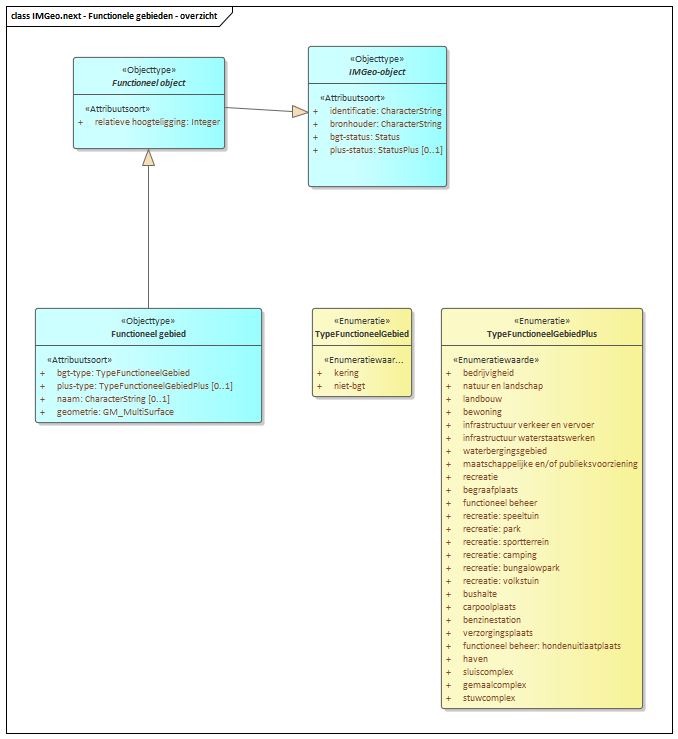
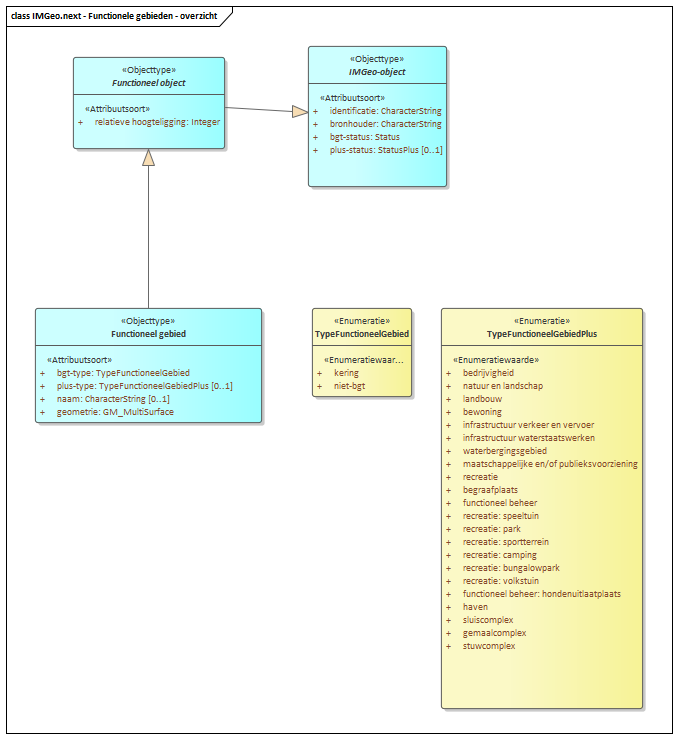
MIMCM-InformatiemodelGeografieIMGeo-conceptueel-1.0-0-20200701-20201126-001243

Changed region(s): [[0.6814, 0.7781, 0.9292, 0.9648]]

diff --git a/data/IMGeo-dev-cat.respec.html b/data/IMGeo-dev-cat.respec.html
@@ -1,7 +1,7 @@
 
 <section id="cat" class="normative">
    <h2>Gegevensdefinitie</h2>
-   <!--MIMCM-InformatiemodelGeografieIMGeo-conceptueel-1.0-0-20200701-20201126-000916 imvertor 1.62.1--><a class="anchor" id="global_d128551e1"></a><section id="global_d128551e1">
+   <!--MIMCM-InformatiemodelGeografieIMGeo-conceptueel-1.0-0-20200701-20201126-001243 imvertor 1.62.1--><a class="anchor" id="global_d128689e1"></a><section id="global_d128689e1">
       <h3>Model   Informatiemodel Geografie (IMGeo) - conceptueel</h3>
       <section id="EAID_8ABD44E0_479E_4cd3_A3E0_F8EAE82D2E3C">
          <h4>Diagram   IMGeo.next met IMBAG - overzicht</h4>
@@ -2018,7 +2018,7 @@
       <h3>Domein   Wegen en verharding</h3>
       <section id="EAID_E403EC98_31B5_4311_805F_11C189EFE219">
          <h4>Diagram   IMGeo.next  - Wegen en verharding - overzicht</h4>
-         <div class="imageinfo overview"><img src="data/Images/EAID_E403EC98_31B5_4311_805F_11C189EFE219.png" usemap="#imagemap-EAID_E403EC98_31B5_4311_805F_11C189EFE219" alt="Diagram "><map name="imagemap-EAID_E403EC98_31B5_4311_805F_11C189EFE219"><area shape="rect" alt="Inrichtingselement" coords="460,403,550,437" href="#graph_EAID_B86E44E5_80BA_4a0b_8DC2_66DFBAA9EEBC"><area shape="rect" alt="TypeWeginrichtingPlus" coords="520,621,617,801" href="#graph_EAID_1B46D55B_448E_4813_944F_7AA7568888BC"><area shape="rect" alt="TypeWeginrichting" coords="413,621,503,697" href="#graph_EAID_8D24AF7A_F3C5_412f_BBB6_E6DDCE147FFB"><area shape="rect" alt="FunctieOndersteunendWegdeelPlus" coords="1196,545,1345,605" href="#graph_EAID_B97C471E_E6A0_40e3_B724_94E026C58AA1"><area shape="rect" alt="FunctieOndersteunendWegdeel" coords="1039,545,1172,634" href="#graph_EAID_4D523A36_1678_4926_A135_39A590146B5F"><area shape="rect" alt="TypeVerhardingPlus" coords="177,525,316,783" href="#graph_EAID_B447BEB5_6C5A_4b9b_9428_358FA653F498"><area shape="rect" alt="TypeVerharding" coords="35,525,158,640" href="#graph_EAID_779158DB_2A20_482e_971A_B89B0AC897A2"><area shape="rect" alt="FunctieWegPlus" coords="890,547,1006,649" href="#graph_EAID_B330F5D6_4F71_4de7_85D9_B46E8CC3092B"><area shape="rect" alt="FunctieWeg" coords="754,534,873,805" href="#graph_EAID_E35307AD_0134_4bfa_95B4_4F6C4F778413"><area shape="rect" alt="Verharding" coords="35,403,367,521" href="#graph_EAID_0F119693_FE35_4680_8746_AF64399B15E0"><area shape="rect" alt="Weginrichtingselement" coords="413,474,597,605" href="#graph_EAID_733BDE2B_7318_40c7_B5A5_4EF6745F0CAA"><area shape="rect" alt="Ondersteunend wegdeel" coords="1039,411,1284,513" href="#graph_EAID_57BA4B67_23D7_41e8_93C6_213555139591"><area shape="rect" alt="Functioneel object" coords="799,241,951,330" href="#graph_EAID_44F5B34F_C3BB_4af7_AD6D_BE95AA65FDBE"><area shape="rect" alt="Topografisch object" coords="285,241,437,330" href="#graph_EAID_0B8D2CCE_1E64_4610_94D7_09B91116A7EB"><area shape="rect" alt="IMGeo-object" coords="501,46,653,163" href="#graph_EAID_D24D2B98_58D3_4be7_B317_FF748E7955A0"><area shape="rect" alt="Wegdeel" coords="744,403,1006,521" href="#graph_EAID_74C9E973_36A1_47d8_8BD4_36EB60B4777C"></map><p><b>IMGeo.next  - Wegen en verharding - overzicht</b></p>
+         <div class="imageinfo overview"><img src="data/Images/EAID_E403EC98_31B5_4311_805F_11C189EFE219.png" usemap="#imagemap-EAID_E403EC98_31B5_4311_805F_11C189EFE219" alt="Diagram "><map name="imagemap-EAID_E403EC98_31B5_4311_805F_11C189EFE219"><area shape="rect" alt="Inrichtingselement" coords="460,400,550,434" href="#graph_EAID_B86E44E5_80BA_4a0b_8DC2_66DFBAA9EEBC"><area shape="rect" alt="TypeWeginrichtingPlus" coords="520,618,617,798" href="#graph_EAID_1B46D55B_448E_4813_944F_7AA7568888BC"><area shape="rect" alt="TypeWeginrichting" coords="413,618,503,694" href="#graph_EAID_8D24AF7A_F3C5_412f_BBB6_E6DDCE147FFB"><area shape="rect" alt="FunctieOndersteunendWegdeelPlus" coords="1196,542,1345,602" href="#graph_EAID_B97C471E_E6A0_40e3_B724_94E026C58AA1"><area shape="rect" alt="FunctieOndersteunendWegdeel" coords="1039,542,1172,631" href="#graph_EAID_4D523A36_1678_4926_A135_39A590146B5F"><area shape="rect" alt="TypeVerhardingPlus" coords="177,522,316,780" href="#graph_EAID_B447BEB5_6C5A_4b9b_9428_358FA653F498"><area shape="rect" alt="TypeVerharding" coords="35,522,158,637" href="#graph_EAID_779158DB_2A20_482e_971A_B89B0AC897A2"><area shape="rect" alt="FunctieWegPlus" coords="890,544,1006,711" href="#graph_EAID_B330F5D6_4F71_4de7_85D9_B46E8CC3092B"><area shape="rect" alt="FunctieWeg" coords="754,531,873,802" href="#graph_EAID_E35307AD_0134_4bfa_95B4_4F6C4F778413"><area shape="rect" alt="Verharding" coords="35,400,367,518" href="#graph_EAID_0F119693_FE35_4680_8746_AF64399B15E0"><area shape="rect" alt="Weginrichtingselement" coords="413,471,597,602" href="#graph_EAID_733BDE2B_7318_40c7_B5A5_4EF6745F0CAA"><area shape="rect" alt="Ondersteunend wegdeel" coords="1039,408,1284,510" href="#graph_EAID_57BA4B67_23D7_41e8_93C6_213555139591"><area shape="rect" alt="Functioneel object" coords="799,238,951,327" href="#graph_EAID_44F5B34F_C3BB_4af7_AD6D_BE95AA65FDBE"><area shape="rect" alt="Topografisch object" coords="285,238,437,327" href="#graph_EAID_0B8D2CCE_1E64_4610_94D7_09B91116A7EB"><area shape="rect" alt="IMGeo-object" coords="501,43,653,160" href="#graph_EAID_D24D2B98_58D3_4be7_B317_FF748E7955A0"><area shape="rect" alt="Wegdeel" coords="744,400,1006,518" href="#graph_EAID_74C9E973_36A1_47d8_8BD4_36EB60B4777C"></map><p><b>IMGeo.next  - Wegen en verharding - overzicht</b></p>
          </div>
       </section>
       <section id="">
@@ -19383,7 +19383,7 @@
 </section>
 <section id="lis" class="normative">
    <h2>Inhoud van waardenlijsten</h2>
-   <!--MIMCM-InformatiemodelGeografieIMGeo-conceptueel-1.0-0-20200701-20201126-000916 imvertor 1.62.1-->
+   <!--MIMCM-InformatiemodelGeografieIMGeo-conceptueel-1.0-0-20200701-20201126-001243 imvertor 1.62.1-->
    <section id="">
       <h3>   </h3>
    </section>
@@ -20346,6 +20346,40 @@
                      <p>Verhoging in een regionale rijbaan, bedoeld om het gemotoriseerde verkeer met een
                         lage snelheid te laten rijden.</p>
                      </td>
+               </tr>
+               <tr>
+                  <th>emplacement</th>
+                  <td>
+                     
+                     <p>Langs de weg gelegen parkeergelegenheid, met inbegrip van de daarbij behorende verharde
+                        en onverharde banen en een of meer voorzieningen ten behoeve van reizigers en/of voertuigen.</p>
+                     </td>
+               </tr>
+               <tr>
+                  <th>bushalte</th>
+                  <td>
+                     
+                     <p>Halteplaats voor bussen van het openbaar vervoer.</p>
+                     </td>
+               </tr>
+               <tr>
+                  <th>carpoolplaats</th>
+                  <td>
+                     
+                     <p>Parkeerplaats die qua ligging en ontsluiting geschikt is voor carpooling.</p>
+                     </td>
+               </tr>
+               <tr>
+                  <th>benzinestation</th>
+                  <td>
+                     
+                     <p>Geheel van installaties, verharding en opstallen waar brandstoffen ten behoeve van
+                        verbrandingsmotoren worden verkocht.</p>
+                     </td>
+               </tr>
+               <tr>
+                  <th>verzorgingsplaats</th>
+                  <td></td>
                </tr>
             </tbody>
          </table>
@@ -22914,36 +22948,6 @@
                   <td>
                      
                      <p>Terreingedeelte in gebruik als volkstuinen, inclusief bebouwing, verharding en dergelijke.</p>
-                     </td>
-               </tr>
-               <tr>
-                  <th>bushalte</th>
-                  <td>
-                     
-                     <p>Halteplaats voor bussen van het openbaar vervoer.</p>
-                     </td>
-               </tr>
-               <tr>
-                  <th>carpoolplaats</th>
-                  <td>
-                     
-                     <p>Parkeerplaats die qua ligging en ontsluiting geschikt is voor carpooling.</p>
-                     </td>
-               </tr>
-               <tr>
-                  <th>benzinestation</th>
-                  <td>
-                     
-                     <p>Geheel van installaties, verharding en opstallen waar brandstoffen ten behoeve van
-                        verbrandingsmotoren worden verkocht.</p>
-                     </td>
-               </tr>
-               <tr>
-                  <th>verzorgingsplaats</th>
-                  <td>
-                     
-                     <p>Langs de weg gelegen parkeergelegenheid, met inbegrip van de daarbij behorende verharde
-                        en onverharde banen en een of meer voorzieningen ten behoeve van reizigers en/of voertuigen.</p>
                      </td>
                </tr>
                <tr>
